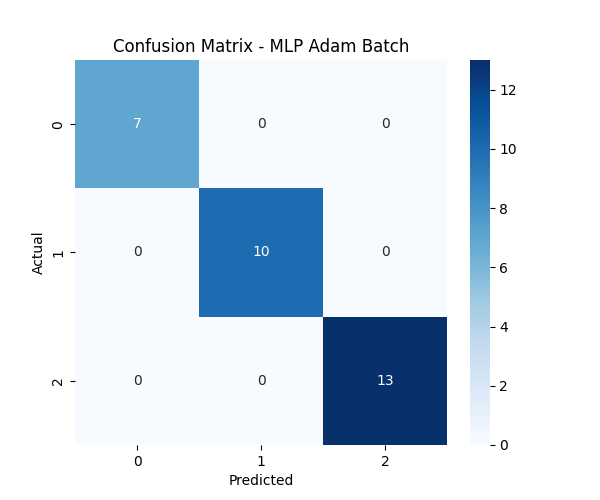
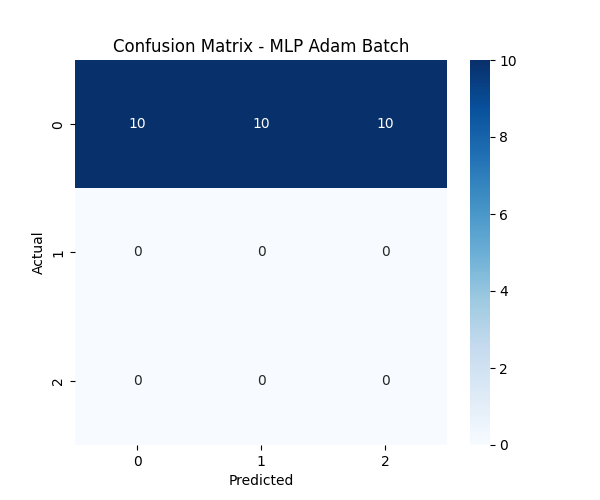
-stratify param for data sampling, - HE init

diff --git a/src/models/MLP_ADAM_batch_HE_init.py b/src/models/MLP_ADAM_batch_HE_init.py
@@ -1,0 +1,120 @@
+import numpy as np
+
+def train(X_train, y_train, X_test, y_test, epochs=230, learning_rate=0.01, batch_size=32):
+    def relu(x):
+        return np.maximum(0, x)
+
+    def relu_derivative(x):
+        return (x > 0).astype(float)
+
+    def softmax(x):
+        exp_x = np.exp(x - np.max(x, axis=1, keepdims=True))
+        return exp_x / np.sum(exp_x, axis=1, keepdims=True)
+
+    def softmax_derivative(output, y):
+        return output - y
+
+    input_size = X_train.shape[1]
+    hidden_size_1 = 10
+    hidden_size_2 = 8
+    output_size = y_train.shape[1]
+
+    np.random.seed(42)
+
+    # Initialize weights using He initialization
+    W1 = np.random.randn(input_size, hidden_size_1) * np.sqrt(2 / input_size)
+    W2 = np.random.randn(hidden_size_1, hidden_size_2) * np.sqrt(2 / hidden_size_1)
+    W3 = np.random.randn(hidden_size_2, output_size) * np.sqrt(2 / hidden_size_2)
+
+    # Biases initialized to zero
+    b1 = np.zeros((1, hidden_size_1))
+    b2 = np.zeros((1, hidden_size_2))
+    b3 = np.zeros((1, output_size))
+
+    beta1, beta2, epsilon = 0.9, 0.999, 1e-8  # Hyperparameters for Adam
+
+    # Initialize moment estimates for Adam (first moment, second moment)
+    mW1, vW1, mb1, vb1 = np.zeros_like(W1), np.zeros_like(W1), np.zeros_like(b1), np.zeros_like(b1)
+    mW2, vW2, mb2, vb2 = np.zeros_like(W2), np.zeros_like(W2), np.zeros_like(b2), np.zeros_like(b2)
+    mW3, vW3, mb3, vb3 = np.zeros_like(W3), np.zeros_like(W3), np.zeros_like(b3), np.zeros_like(b3)
+
+    def compute_loss(y_pred, y_true):
+        m = y_true.shape[0]
+        return -np.sum(y_true * np.log(y_pred + 1e-8)) / m
+
+    loss_history, accuracy_history = [], []
+
+    for epoch in range(epochs):
+        # Shuffle data before each epoch
+        indices = np.arange(X_train.shape[0])
+        np.random.shuffle(indices)
+        X_train, y_train = X_train[indices], y_train[indices]
+
+        for i in range(0, X_train.shape[0], batch_size):
+            X_batch = X_train[i:i+batch_size]
+            y_batch = y_train[i:i+batch_size]
+
+            # Forward pass
+            Z1 = np.dot(X_batch, W1) + b1
+            A1 = relu(Z1)
+            Z2 = np.dot(A1, W2) + b2
+            A2 = relu(Z2)
+            Z3 = np.dot(A2, W3) + b3
+            A3 = softmax(Z3)
+
+            # Compute loss
+            loss = compute_loss(A3, y_batch)
+
+            # Backpropagation
+            dZ3 = softmax_derivative(A3, y_batch)
+            dW3 = np.dot(A2.T, dZ3)
+            db3 = np.sum(dZ3, axis=0, keepdims=True)
+
+            dZ2 = np.dot(dZ3, W3.T) * relu_derivative(Z2)
+            dW2 = np.dot(A1.T, dZ2)
+            db2 = np.sum(dZ2, axis=0, keepdims=True)
+
+            dZ1 = np.dot(dZ2, W2.T) * relu_derivative(Z1)
+            dW1 = np.dot(X_batch.T, dZ1)
+            db1 = np.sum(dZ1, axis=0, keepdims=True)
+
+            # Adam optimizer updates
+            for param, dparam, m, v in zip([W1, W2, W3, b1, b2, b3],
+                                           [dW1, dW2, dW3, db1, db2, db3],
+                                           [mW1, mW2, mW3, mb1, mb2, mb3],
+                                           [vW1, vW2, vW3, vb1, vb2, vb3]):
+                m = beta1 * m + (1 - beta1) * dparam
+                v = beta2 * v + (1 - beta2) * (dparam ** 2)
+                m_hat = m / (1 - beta1 ** (epoch + 1))
+                v_hat = v / (1 - beta2 ** (epoch + 1))
+                param -= learning_rate * m_hat / (np.sqrt(v_hat) + epsilon)
+
+        # Compute training accuracy at the end of the epoch
+        Z1_train = np.dot(X_train, W1) + b1
+        A1_train = relu(Z1_train)
+        Z2_train = np.dot(A1_train, W2) + b2
+        A2_train = relu(Z2_train)
+        Z3_train = np.dot(A2_train, W3) + b3
+        A3_train = softmax(Z3_train)
+
+        predictions_train = np.argmax(A3_train, axis=1)
+        y_train_classes = np.argmax(y_train, axis=1)
+        accuracy_train = np.mean(predictions_train == y_train_classes)
+
+        loss_history.append(loss)
+        accuracy_history.append(accuracy_train)
+
+    # Forward pass on the test set
+    Z1_test = np.dot(X_test, W1) + b1
+    A1_test = relu(Z1_test)
+    Z2_test = np.dot(A1_test, W2) + b2
+    A2_test = relu(Z2_test)
+    Z3_test = np.dot(A2_test, W3) + b3
+    A3_test = softmax(Z3_test)
+
+    # Compute predictions and accuracy
+    predictions = np.argmax(A3_test, axis=1)
+    y_test_classes = np.argmax(y_test, axis=1)
+    accuracy = np.mean(predictions == y_test_classes)
+        
+    return loss_history, accuracy_history, predictions, y_test_classes, accuracy

diff --git a/src/data/dataset.py b/src/data/dataset.py
@@ -22,18 +22,41 @@ def one_hot_encoder(labels):
     label_indices = np.array([label_to_index[label] for label in labels])
     return np.eye(len(unique_labels))[label_indices]
 
-def split_dataset(X, y, test_size=0.2):
-    """Splits dataset into train and test sets, ensuring balanced class distribution."""
-    num_samples = len(y)
-    indices = np.arange(num_samples)
-    np.random.shuffle(indices)
+def split_dataset(X, y, test_size=0.2, stratify=False):
+    """Splits dataset into train and test sets, ensuring balanced class distribution if stratify=True."""
+    if stratify:
+        class_labels = np.argmax(y, axis=1)
+        
+        classes, class_counts = np.unique(class_labels, return_counts=True)
+        train_indices, test_indices = [], []        
+        
+        for i, class_ in enumerate(classes):        
+            class_indices = np.where(class_labels == class_)[0]
+            np.random.shuffle(class_indices)
 
-    split_idx = int(num_samples * (1 - test_size))
-    train_indices, test_indices = indices[:split_idx], indices[split_idx:]
-
+            num_test_samples = int(class_counts[i] * test_size)
+                        
+            test_class_indices = class_indices[:num_test_samples]
+            train_class_indices = class_indices[num_test_samples:]
+            
+            test_indices.extend(test_class_indices)
+            train_indices.extend(train_class_indices)
+        
+        train_indices = np.array(train_indices)
+        test_indices = np.array(test_indices)
+    
+    else:        
+        num_samples = len(y)
+        indices = np.arange(num_samples)
+        np.random.shuffle(indices)
+        
+        split_idx = int(num_samples * (1 - test_size))
+        train_indices, test_indices = indices[:split_idx], indices[split_idx:]
+    
+    # Tworzymy zbiory X_train, X_test, y_train, y_test
     X_train, X_test = X.iloc[train_indices].values, X.iloc[test_indices].values
     y_train, y_test = y[train_indices], y[test_indices]
-
+    
     return X_train, X_test, y_train, y_test
 
 def data_normalization(X):
@@ -50,4 +73,4 @@ file_path = os.path.join('data', 'raw', 'Iris.csv')
 X, y = load_data(file_path)
 X_normalize = data_normalization(X)
 
-X_train, X_test, y_train, y_test = split_dataset(X_normalize, y, test_size=0.2)
+X_train, X_test, y_train, y_test = split_dataset(X_normalize, y, test_size=0.2, stratify=True)

diff --git a/src/main.py b/src/main.py
@@ -9,10 +9,11 @@ from src.models.MLP_ADAM import train as train_MLP_ADAM
 from src.models.MLP_ADAM_L2 import train as train_MLP_ADAM_L2
 from src.models.MLP_tf import train as train_MLP_tf
 from src.models.MLP_ADAM_batch import train as train_MLP_ADAM_batch
+from src.models.MLP_ADAM_batch_HE_init import train as train_MLP_ADAM_batch_HE_init
 
 from src.visualization.explore_data import analyze_data
 from src.visualization.analyze_training_results import analyze_training_results
-
+import numpy as np
 def main():
     #analyze_data(X, y)
     results = {}
@@ -23,6 +24,7 @@ def main():
         "MLP Adam": train_MLP_ADAM,
         "MLP Adam + L2": train_MLP_ADAM_L2,
         "MLP Adam Batch": train_MLP_ADAM_batch,
+        "MLP Adam Batch HE Init": train_MLP_ADAM_batch_HE_init,
         "MLP Tensorflow": train_MLP_tf
     }
 
